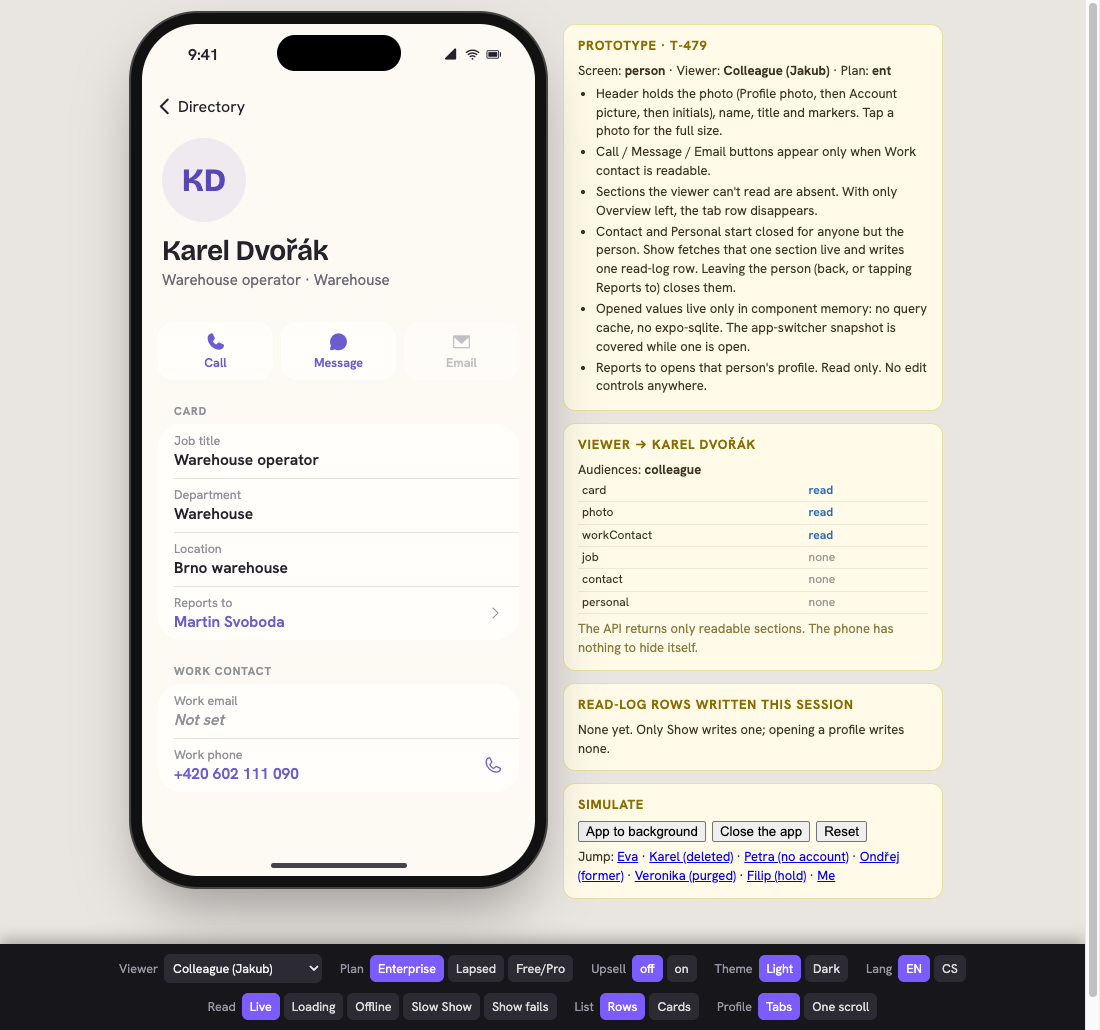
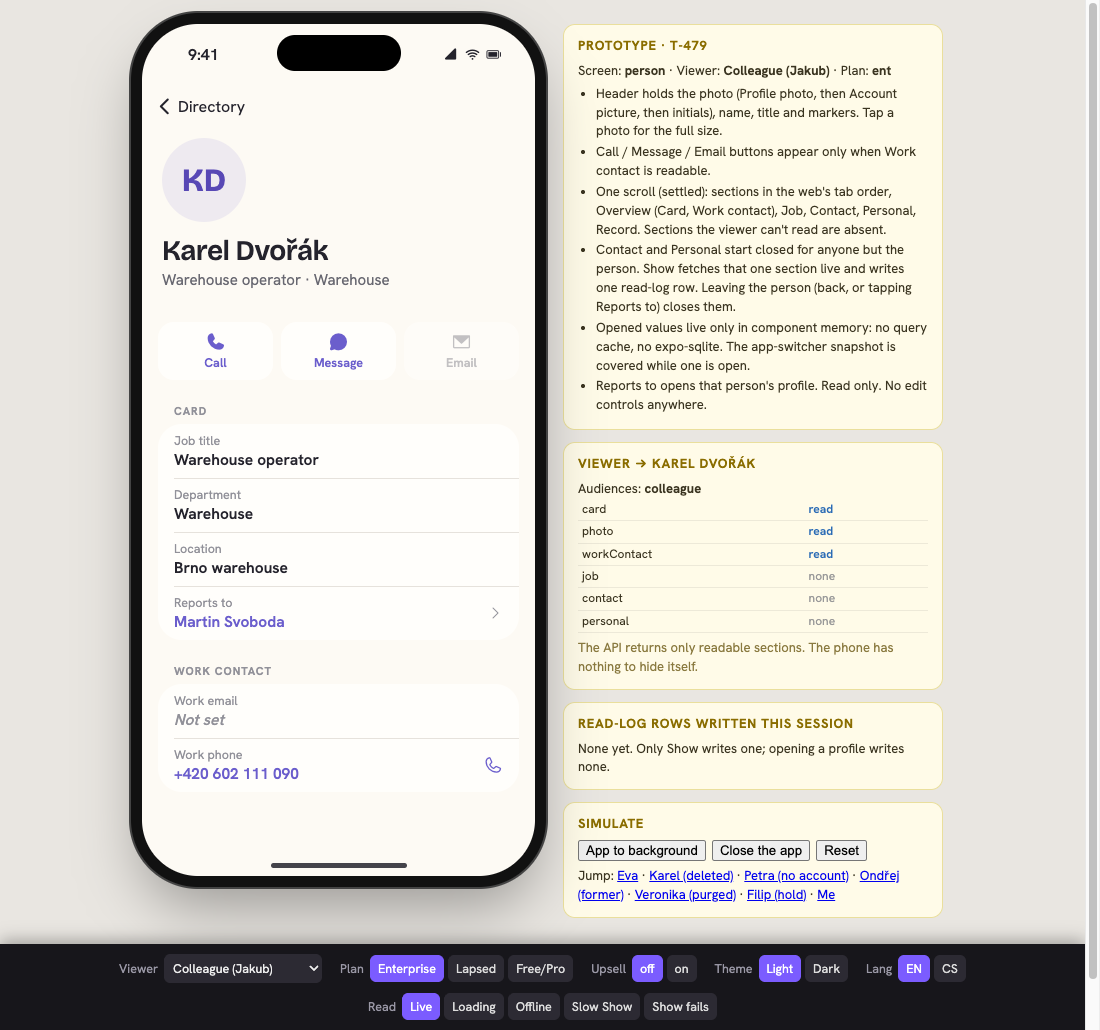
Settle the iPhone prototype on rows and one scroll, add the organization picker
The owner accepted round 1: the directory is rows and the profile is one
scroll, so the Cards and Tabs variants and their switches go. The
organization name under the title becomes a picker for a viewer in more
than one directory organization; HR (Lucie) also belongs to Kolar
Holding a.s. as a plain colleague. Screenshots re-shot.

diff --git a/prototypes/directory-iphone/index.html b/prototypes/directory-iphone/index.html
@@ -289,7 +289,7 @@
           reportsHidden: "Nadřízený, kterého nevidíte",
         },
       };
-      const t = (k, ...a) => { const v = D[S.lang][k] ?? D.en[k] ?? k; return typeof v === "function" ? v(...a) : v; };
+      const t = (k, ...a) => { const v = D[S.lang][k] ?? D.en[k] ?? k; const out = typeof v === "function" ? v(...a) : v; return typeof out === "string" ? out.replace(/Acme s\.r\.o\./g, orgName()) : out; };
 
       // ---------- fake data (from prototype/directory-web) ----------
       const TODAY = "2026-10-25";
@@ -311,7 +311,7 @@
       const E = () => ({ phone: "", email: "", ec: [{ name: "", phone: "" }, { name: "", phone: "" }] });
       const PE = () => ({ a1: "", a2: "", postal: "", city: "", region: "", country: "", dob: "" });
       const J = (o = {}) => ({ legal: "", number: "", start: "", probation: "", leaving: "", contract: "", wt: "", ...o });
-      const person = (o) => ({ type: "employee", account: "bound", ended: null, groups: [], manages: [], roles: [], orgAdmin: false, owner: false, hold: null, photo: null, acct: null, removed: {}, rejoinedAs: null, work: { email: "", phone: "" }, job: J(), contact: E(), personal: PE(), ...o });
+      const person = (o) => ({ org: "acme", type: "employee", account: "bound", ended: null, groups: [], manages: [], roles: [], orgAdmin: false, owner: false, hold: null, photo: null, acct: null, removed: {}, rejoinedAs: null, work: { email: "", phone: "" }, job: J(), contact: E(), personal: PE(), ...o });
       const PEOPLE = [
         person({ id: "richard", name: "Richard Kolář", email: "richard@acme.cz", owner: true, start: "2019-01-07", photo: 40, acct: 200, card: { title: "Managing director", dept: "fin", loc: "prg", reportsTo: "" }, work: { email: "richard.kolar@acme.cz", phone: "+420 602 111 000" }, job: J({ number: "A-0001", start: "2019-01-07", contract: "permanent", wt: "full" }) }),
         person({ id: "martin", name: "Martin Svoboda", email: "martin.svoboda@gmail.com", orgAdmin: true, start: "2020-05-01", acct: 150, card: { title: "Operations manager", dept: "ops", loc: "prg", reportsTo: "richard" }, work: { email: "martin.svoboda@acme.cz", phone: "+420 602 111 020" }, job: J({ number: "A-0007", start: "2020-05-01", contract: "permanent", wt: "full" }) }),
@@ -332,6 +332,16 @@
         person({ id: "filip", name: "Filip Beneš", email: "filip.benes@email.cz", account: "deleted", start: "2017-03-01", ended: "2025-12-31", hold: { by: "Martin Svoboda", at: "2026-02-03" }, card: { title: "Accountant", dept: "fin", loc: "prg", reportsTo: "" }, work: { email: "filip.benes@acme.cz", phone: "+420 602 111 080" }, job: J({ number: "A-0002", start: "2017-03-01", contract: "permanent", wt: "full" }), contact: { phone: "+420 603 444 333", email: "", ec: [{ name: "", phone: "" }, { name: "", phone: "" }] }, personal: { a1: "Masarykova 8", a2: "", postal: "301 00", city: "Plzeň", region: "Plzeňský kraj", country: "CZ", dob: "1979-05-30" } }),
         person({ id: "hana0", name: "Hana Marková", email: "hana.markova@email.cz", start: "2025-04-01", ended: "2026-03-31", photo: 60, rejoinedAs: "hana", removed: { workContact: "2026-04-30", contact: "2026-04-30" }, card: { title: "Seasonal support agent", dept: "sup", loc: "brn", reportsTo: "" }, job: J({ number: "A-0047", start: "2025-04-01", contract: "fixed", wt: "full" }), personal: { a1: "Cejl 40", a2: "byt 12", postal: "602 00", city: "Brno", region: "Jihomoravský kraj", country: "CZ", dob: "2001-09-09" } }),
       ];
+      // second organization: Lucie (HR at Acme) is a plain colleague here
+      PEOPLE.push(
+        person({ id: "lucie_h", org: "holding", name: "Lucie Králová", email: "lucie.kralova@acme.cz", start: "2024-01-01", photo: 330, card: { title: "Board secretary", dept: "fin", loc: "prg", reportsTo: "richard_h" }, work: { email: "lucie@kolar-holding.cz", phone: "+420 602 900 010" } }),
+        person({ id: "richard_h", org: "holding", name: "Richard Kolář", email: "richard@acme.cz", owner: true, start: "2015-03-01", photo: 40, card: { title: "Chairman of the board", dept: "fin", loc: "prg", reportsTo: "" }, work: { email: "richard@kolar-holding.cz", phone: "+420 602 900 001" } }),
+        person({ id: "jana_h", org: "holding", name: "Jana Kolářová", email: "jana@kolar-holding.cz", start: "2016-09-01", acct: 20, card: { title: "Finance director", dept: "fin", loc: "prg", reportsTo: "richard_h" }, work: { email: "jana@kolar-holding.cz", phone: "+420 602 900 002" } }),
+        person({ id: "milan_h", org: "holding", name: "Milan Beran", email: "", account: "none", start: "2023-05-01", card: { title: "Property manager", dept: "ops", loc: "brn", reportsTo: "jana_h" }, work: { email: "milan@kolar-holding.cz", phone: "" } }),
+      );
+      const ORGS = { acme: "Acme s.r.o.", holding: "Kolář Holding a.s." };
+      const orgName = () => ORGS[S.org] || ORGS.acme;
+      const multiOrg = () => S.role === "hr";
       const P = Object.fromEntries(PEOPLE.map((p) => [p.id, p]));
       const VIEWERS = { self: "eva", colleague: "jakub", external: "jonas", groupAdmin: "marketa", hr: "lucie", leadership: "tomas", orgAdmin: "martin", owner: "richard" };
       const VIEWER_LABEL = { self: "Self (Eva)", colleague: "Colleague (Jakub)", external: "External (Jonas)", groupAdmin: "Group admin (Markéta)", hr: "HR (Lucie)", leadership: "Leadership (Tomáš)", orgAdmin: "Org admin (Martin)", owner: "Owner (Richard)" };
@@ -347,13 +357,13 @@
 
       // ---------- state ----------
       const S = {
-        role: "hr", plan: "ent", theme: "light", lang: "en", read: "live", listV: "rows", profV: "tabs", upsell: false,
+        role: "hr", org: "acme", plan: "ent", theme: "light", lang: "en", read: "live", upsell: false,
         stack: [{ r: "dashboard" }], sheet: null, revealed: {}, ptab: "overview", q: "", f: { dept: "", loc: "", type: "" }, seg: "current",
         log: [], bg: false, toast: null, signedOut: false, retrying: false,
       };
 
       // ---------- permission logic (same as the web prototype) ----------
-      const viewer = () => P[VIEWERS[S.role]];
+      const viewer = () => (S.org === "holding" ? P.lucie_h : P[VIEWERS[S.role]]);
       const isAdmin = (v) => v.owner || v.orgAdmin;
       const hrish = (v) => v.owner || v.orgAdmin || v.roles.includes("hr");
       const reaches = (v, r) => v.manages.length > 0 && !r.ended && r.id !== v.id && r.groups.some((g) => v.manages.includes(g));
@@ -521,7 +531,7 @@
       function filtered() {
         const v = viewer();
         const q = S.q.trim().toLowerCase();
-        let list = S.seg === "former" ? PEOPLE.filter((p) => p.ended) : PEOPLE.filter((p) => !p.ended && reads(v, p, "card"));
+        let list = S.seg === "former" ? PEOPLE.filter((p) => p.org === S.org && p.ended) : PEOPLE.filter((p) => p.org === S.org && !p.ended && reads(v, p, "card"));
         list = list.filter((p) => !q || p.name.toLowerCase().includes(q) || p.card.title.toLowerCase().includes(q));
         if (S.f.dept) list = list.filter((p) => p.card.dept === S.f.dept);
         if (S.f.loc) list = list.filter((p) => p.card.loc === S.f.loc);
@@ -537,7 +547,7 @@
         const chip = (k, label, val, name) => `<span class="chip ${val ? "on" : ""}" onclick="S.sheet='filter:${k}';render()">${val ? name : label}<i class="ph-bold ph-caret-down" style="font-size:11px"></i></span>`;
         const typeName = S.f.type === "external" ? t("externals") : t("employees");
         const head = `<div style="padding-top:2px">
-          <h1 class="h1">${t("directory")}</h1><div style="color:var(--muted);font-size:14px;margin:2px 0 12px">Acme s.r.o.</div>
+          <h1 class="h1">${t("directory")}</h1>${multiOrg() ? `<div onclick="S.sheet='org';render()" style="color:var(--primary);font-weight:600;font-size:14.5px;margin:2px 0 12px;cursor:pointer;display:inline-flex;align-items:center;gap:4px">${orgName()}<i class="ph-bold ph-caret-down" style="font-size:12px"></i></div>` : `<div style="color:var(--muted);font-size:14px;margin:2px 0 12px">${orgName()}</div>`}
           ${lapseBanner()}
           ${segRow}
           <div class="search"><i class="ph ph-magnifying-glass" style="font-size:18px"></i><input id="q" placeholder="${t("search")}" value="${S.q.replace(/"/g, "&quot;")}" oninput="S.q=this.value;renderKeep()"/>${S.q ? `<i class="ph-fill ph-x-circle" style="cursor:pointer" onclick="S.q='';render()"></i>` : ""}</div>
@@ -550,7 +560,7 @@
           const list = filtered();
           if (!list.length) body = `<div style="text-align:center;padding:48px 16px;color:var(--muted)"><i class="ph ph-magnifying-glass" style="font-size:34px;color:var(--faint)"></i><div style="font-weight:600;color:var(--text);margin:8px 0 4px">${t("noMatch")}</div><button class="btn ghost" onclick="S.q='';S.f={dept:'',loc:'',type:''};render()">${t("clearFilters")}</button></div>`;
           else if (S.seg === "former") body = formerList(list);
-          else body = `<div class="label" style="padding-top:14px"><span>${t("nPeople", list.length)}</span></div>` + (S.listV === "rows" ? rowsList(list) : cardsList(list));
+          else body = `<div class="label" style="padding-top:14px"><span>${t("nPeople", list.length)}</span></div>` + rowsList(list);
         }
         return `<div class="screen">${stackHead("")}<div class="scroll" id="dirscroll">${head}${body}</div></div>`;
       }
@@ -558,10 +568,6 @@
       function rowsList(list) {
         const v = viewer();
         return `<div class="card">${list.map((r) => `<div class="row tap" onclick="push({r:'person',id:'${r.id}'})">${avatar(r, v, 40)}<div class="kv"><div class="v" style="font-size:15.5px">${r.name}</div><div class="k" style="font-size:13px;color:var(--muted)">${[r.card.title, deptName(r.card.dept)].filter(Boolean).join(" · ")}</div><div style="display:flex;gap:4px;margin-top:3px;flex-wrap:wrap">${markers(r, v)}</div></div><i class="ph ph-caret-right chev"></i></div>`).join("")}</div>`;
-      }
-      function cardsList(list) {
-        const v = viewer();
-        return `<div class="grid2">${list.map((r) => `<div class="pcard" onclick="push({r:'person',id:'${r.id}'})">${avatar(r, v, 64)}<div class="n">${r.name}</div><div class="s">${r.card.title}</div><div class="s" style="color:var(--faint)">${locName(r.card.loc)}</div><div class="ch">${markers(r, v, true)}</div></div>`).join("")}</div>`;
       }
       function formerList(list) {
         const v = viewer();
@@ -670,11 +676,7 @@
         const lb = lapsed() ? lapseBanner() + '<div class="gap-s"></div>' : "";
         let body = "";
         const blocks = { overview: () => overviewInner(r, v), job: () => jobInner(r), contact: () => contactInner(r), personal: () => personalInner(r), record: () => recordInner(r, v) };
-        if (S.profV === "tabs") {
-          const icon = (k) => (sensitive(k) && !self ? '<i class="ph-fill ph-lock-simple"></i>' : "");
-          const tabRow = tabs.length > 1 ? `<div class="tabs">${tabs.map((k) => `<button class="${S.ptab === k ? "on" : ""}" onclick="S.ptab='${k}';render()">${icon(k)}${t("tab_" + k)}</button>`).join("")}</div><div class="gap-s"></div><div style="height:8px"></div>` : "";
-          body = tabRow + blocks[S.ptab]();
-        } else body = tabs.map((k) => blocks[k]()).join("");
+        body = tabs.map((k) => blocks[k]()).join("");
         return `<div class="screen">${stackHead("", { backLabel: S.stack.length > 2 && S.stack[S.stack.length - 2].r === "person" ? P[S.stack[S.stack.length - 2].id].name.split(" ")[0] : t("directory") })}<div class="scroll">${header}${lb}${selfHint}${qa}${body}</div></div>`;
       }
 
@@ -684,6 +686,10 @@
         const cur = S.f[k];
         const row = (id, label) => `<div class="mrow" style="color:var(--text)" onclick="S.f.${k}='${id}';S.sheet=null;render()"><span style="flex:1">${label}</span>${cur === id ? '<i class="ph-bold ph-check" style="color:var(--primary)"></i>' : ""}</div>`;
         return `<div class="sheetwrap"><div class="scrimbg" onclick="S.sheet=null;render()"></div><div class="sheet"><div class="grab"></div><div class="mlabel">${t(k)}</div>${row("", t("any"))}${opts.map(([id, l]) => row(id, l)).join("")}</div></div>`;
+      }
+      function orgSheet() {
+        const row = (id) => `<div class="mrow" style="color:var(--text)" onclick="S.org='${id}';S.seg='current';S.q='';S.f={dept:'',loc:'',type:''};S.revealed={};S.sheet=null;render()"><span style="flex:1">${ORGS[id]}</span>${S.org === id ? '<i class="ph-bold ph-check" style="color:var(--primary)"></i>' : ""}</div>`;
+        return `<div class="sheetwrap"><div class="scrimbg" onclick="S.sheet=null;render()"></div><div class="sheet"><div class="grab"></div><div class="mlabel">${S.lang === "cs" ? "Organizace" : "Organization"}</div>${Object.keys(ORGS).map(row).join("")}</div></div>`;
       }
       function actionSheet(kind, value, sens) {
         const v = decodeURIComponent(value);
@@ -699,8 +705,8 @@
       // ---------- side panel: notes and state ----------
       const NOTES = {
         dashboard: ["The tab bar keeps its five slots (Dashboard, Requests, clock, My attendance, More). The directory goes behind More, in a new People section, the same name as the web's sidebar section.", "Free and Pro: no People section at all, unless the upsell switch in the bar is on and the viewer is owner or org admin."],
-        directory: ["Pushed over the tab bar like Groups or Settings, with its own back button.", "Live read every time it opens, and again on pull to refresh and on foreground. Nothing goes to the local store.", "Search covers name and job title. Filters: department, location, type. Same as the web.", "Current / Former only for Owner, Org admin and HR.", "Markers: everyone sees External. No account, Invite sent and Account deleted only for Owner, Org admin and HR.", "No leave or attendance status."],
-        person: ["Header holds the photo (Profile photo, then Account picture, then initials), name, title and markers. Tap a photo for the full size.", "Call / Message / Email buttons appear only when Work contact is readable.", "Sections the viewer can't read are absent. With only Overview left, the tab row disappears.", "Contact and Personal start closed for anyone but the person. Show fetches that one section live and writes one read-log row. Leaving the person (back, or tapping Reports to) closes them.", "Opened values live only in component memory: no query cache, no expo-sqlite. The app-switcher snapshot is covered while one is open.", "Reports to opens that person's profile. Read only. No edit controls anywhere."],
+        directory: ["Pushed over the tab bar like Groups or Settings, with its own back button.", "Live read every time it opens, and again on pull to refresh and on foreground. Nothing goes to the local store.", "Search covers name and job title. Filters: department, location, type. Same as the web.", "Current / Former only for Owner, Org admin and HR.", "Rows only (settled). The organization name under the title is a picker only for a viewer in more than one directory organization: HR (Lucie) here, who is a plain colleague at Kolář Holding a.s.", "Markers: everyone sees External. No account, Invite sent and Account deleted only for Owner, Org admin and HR.", "No leave or attendance status."],
+        person: ["Header holds the photo (Profile photo, then Account picture, then initials), name, title and markers. Tap a photo for the full size.", "Call / Message / Email buttons appear only when Work contact is readable.", "One scroll (settled): sections in the web's tab order, Overview (Card, Work contact), Job, Contact, Personal, Record. Sections the viewer can't read are absent.", "Contact and Personal start closed for anyone but the person. Show fetches that one section live and writes one read-log row. Leaving the person (back, or tapping Reports to) closes them.", "Opened values live only in component memory: no query cache, no expo-sqlite. The app-switcher snapshot is covered while one is open.", "Reports to opens that person's profile. Read only. No edit controls anywhere."],
         upsell: ["Only shown with the upsell switch on, for owner and org admins on Free or Pro. The phone has no billing screens, so the button opens the web."],
       };
       function side() {
@@ -722,14 +728,12 @@
       // ---------- control bar ----------
       function bar() {
         const g = (label, key, opts) => `<div class="g"><span>${label}</span>${opts.map(([v, l]) => `<button class="${S[key] === v ? "on" : ""}" onclick="S['${key}']=${typeof v === "boolean" ? v : `'${v}'`};S.revealed={};render()">${l}</button>`).join("")}</div>`;
-        return `<div class="g"><span>Viewer</span><select onchange="S.role=this.value;S.revealed={};S.seg='current';render()">${Object.keys(VIEWERS).map((k) => `<option value="${k}" ${S.role === k ? "selected" : ""}>${VIEWER_LABEL[k]}</option>`).join("")}</select></div>
+        return `<div class="g"><span>Viewer</span><select onchange="S.role=this.value;S.org='acme';S.revealed={};S.seg='current';render()">${Object.keys(VIEWERS).map((k) => `<option value="${k}" ${S.role === k ? "selected" : ""}>${VIEWER_LABEL[k]}</option>`).join("")}</select></div>
           ${g("Plan", "plan", [["ent", "Enterprise"], ["lapsed", "Lapsed"], ["none", "Free/Pro"]])}
           ${g("Upsell", "upsell", [[false, "off"], [true, "on"]])}
           ${g("Theme", "theme", [["light", "Light"], ["dark", "Dark"]])}
           ${g("Lang", "lang", [["en", "EN"], ["cs", "CS"]])}
-          ${g("Read", "read", [["live", "Live"], ["loading", "Loading"], ["error", "Offline"], ["slow", "Slow Show"], ["showfail", "Show fails"]])}
-          ${g("List", "listV", [["rows", "Rows"], ["cards", "Cards"]])}
-          ${g("Profile", "profV", [["tabs", "Tabs"], ["scroll", "One scroll"]])}`;
+          ${g("Read", "read", [["live", "Live"], ["loading", "Loading"], ["error", "Offline"], ["slow", "Slow Show"], ["showfail", "Show fails"]])}`;
       }
 
       // ---------- render ----------
@@ -746,6 +750,7 @@
         else screen = scrDashboard(fr.r);
         let sheet = "";
         if (S.sheet === "more") sheet = moreSheet();
+        else if (S.sheet === "org") sheet = orgSheet();
         else if (S.sheet && S.sheet.startsWith("filter:")) sheet = filterSheet(S.sheet.slice(7));
         else if (S.sheet && S.sheet.startsWith("photo:")) sheet = photoViewer(S.sheet.slice(6));
         else if (S.sheet) { const [k, v, s] = S.sheet.split(":"); sheet = actionSheet(k, v, s); }
@@ -764,7 +769,7 @@
       // ---------- hash: #role=hr&plan=ent&theme=dark&lang=cs&go=person/eva&tab=contact&show=contact&sheet=more&seg=former ----------
       (function fromHash() {
         const p = new URLSearchParams(location.hash.slice(1));
-        for (const k of ["role", "plan", "theme", "lang", "read", "listV", "profV", "seg", "q"]) if (p.get(k)) S[k] = p.get(k);
+        for (const k of ["role", "org", "plan", "theme", "lang", "read", "seg", "q"]) if (p.get(k)) S[k] = p.get(k);
         if (p.get("upsell") === "1") S.upsell = true;
         for (const k of ["dept", "loc", "type"]) if (p.get(k)) S.f[k] = p.get(k);
         const go = p.get("go");
